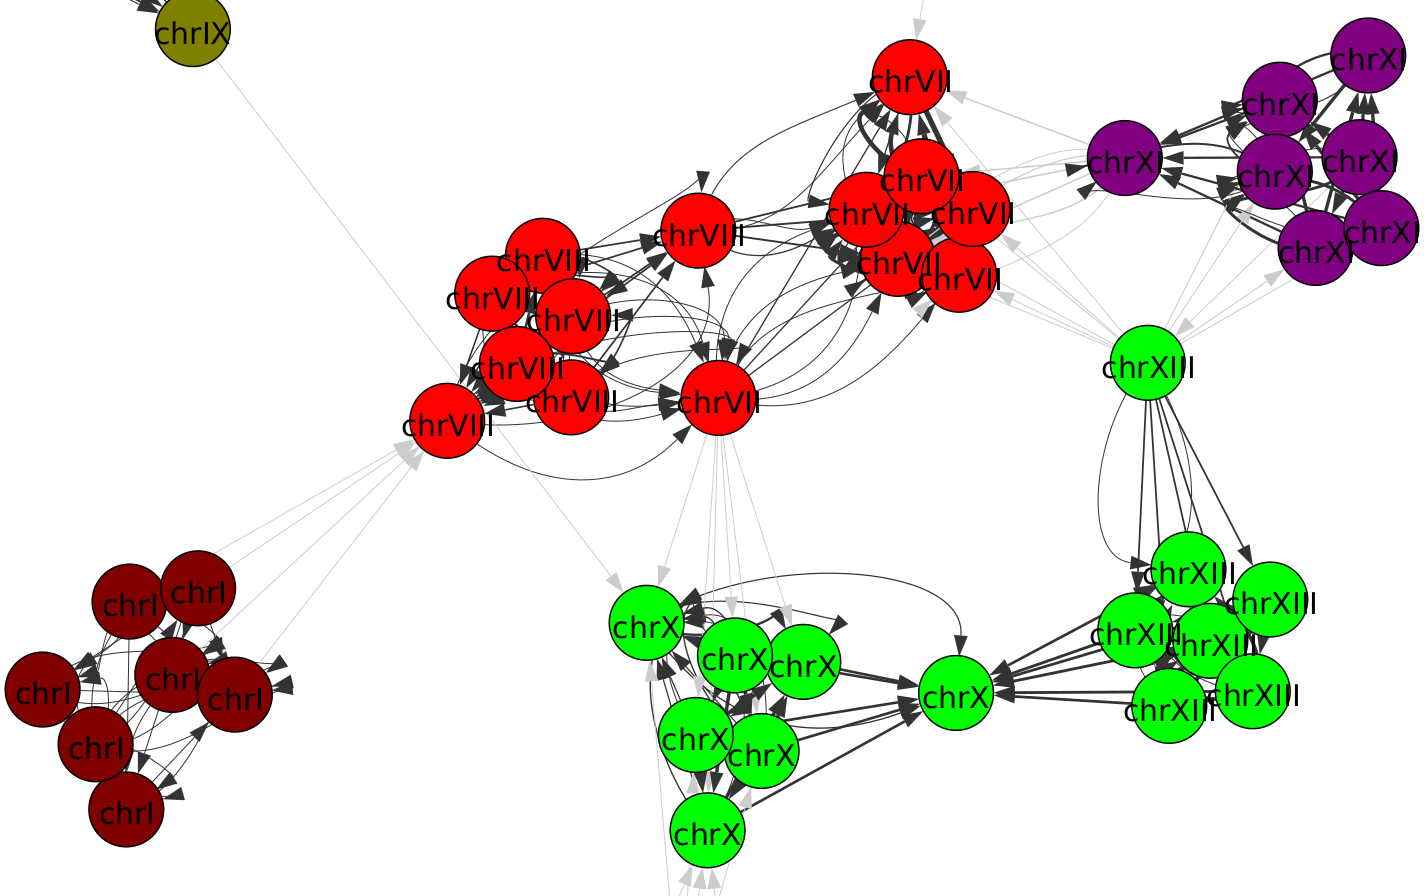
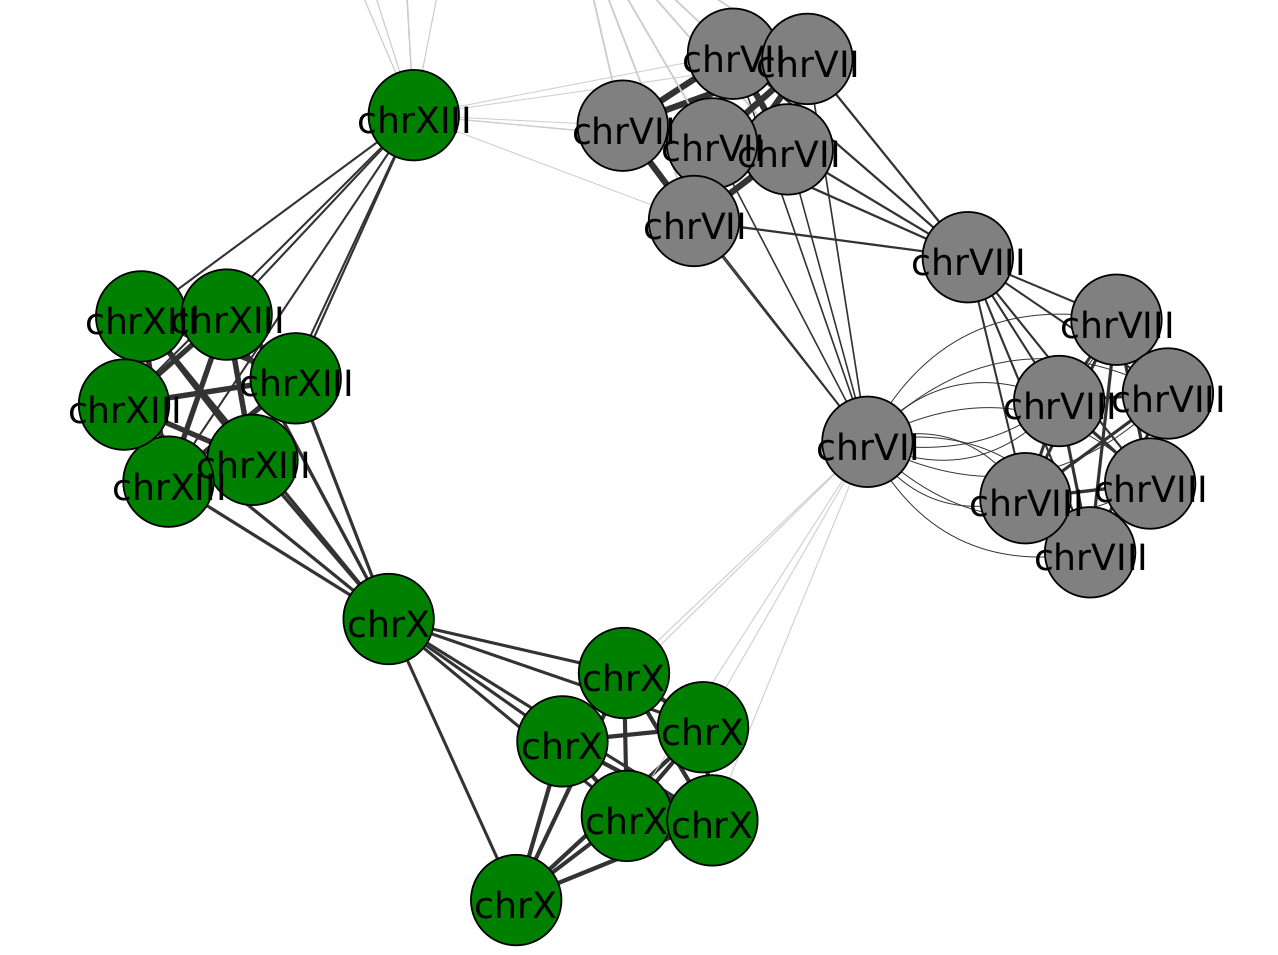
fix and update the partitioning tutorial

diff --git a/docs/conf.py b/docs/conf.py
@@ -20,13 +20,13 @@ sys.path.insert(0, os.path.abspath('../lib/'))
 # -- Project information -----------------------------------------------------
 
 project = u'pggb'
-copyright = '2022, Erik Garrison, .... Revision v0.3.0-2235cfe'
+copyright = '2022, Erik Garrison, .... Revision v0.3.0-352c385'
 author = u'Erik Garrison, ...'
 
 # The short X.Y version
 version = 'v0.3.0'
 # The full version, including alpha/beta/rc tags
-release = '2235cfe'
+release = '352c385'
 
 
 # -- General configuration ---------------------------------------------------

diff --git a/docs/rst/tutorials/sequence_partitioning.rst b/docs/rst/tutorials/sequence_partitioning.rst
@@ -36,7 +36,7 @@ the ``leidenalg`` `package <https://github.com/vtraag/leidenalg>`_:
 
 .. code-block:: bash
 
-    pip3 install leidenalg
+    pip3 install python-igraph
     pip3 install pycairo # Only needed for visualization
 
 
@@ -92,11 +92,12 @@ To compute the pairwise mappings with `wfmash <https://github.com/ekg/wfmash>`_,
 
 .. code-block:: bash
 
-    wfmash scerevisiae7.fasta.gz -p 90 -n 7 -t 4 -m > scerevisiae7.mapping.paf
+    wfmash scerevisiae7.fasta.gz -p 90 -n 6 -t 4 -m > scerevisiae7.mapping.paf
 
 
 We set ``-p 90`` as we expect a sequence divergence of ~10% between these assemblies (see the :ref:`divergence_estimation`
-tutorial for more information), while ``-n 7`` indicates the number of haplotypes (number of haploid samples in this example).
+tutorial for more information), while ``-n 6`` indicates the number of mappings to keep for each homologous region
+identified, set as the number of haplotypes (number of haploid samples in this example) minus 1.
 
 To project the PAF mappings into a network format (an edge list), execute:
 
@@ -120,12 +121,12 @@ To identity the communities, execute:
         -n scerevisiae7.mapping.paf.vertices.id2name.txt
 
 The ``paf2net.py`` script creates a set of `*.community.*.txt` files one for each of the 15 communities detected.
-Each ``txt`` file lists the sequences that belong to the same community. For example, to see the sequences in the first community,
+Each ``txt`` file lists the sequences that belong to the same community. For example, to see the sequences in one community,
 execute:
 
 .. code-block:: bash
 
-    cat scerevisiae7.mapping.paf.edges.weights.txt.community.0.txt
+    cat scerevisiae7.mapping.paf.edges.weights.txt.community.6.txt
 
 .. code-block:: none
 
@@ -157,21 +158,22 @@ samples (`Yue et al., 2016 <https://doi.org/10.1038/ng.3847>`_). To see the chro
 
 .. code-block:: none
 
-    community 0 --> chrVII chrVIII
-    community 1 --> chrX chrXIII
-    community 2 --> chrVI
+    community 0 --> chrI
+    community 1 --> chrII
+    community 2 --> chrIII
     community 3 --> chrIV
     community 4 --> chrV
-    community 5 --> chrXII
-    community 6 --> chrXV
-    community 7 --> chrI
-    community 8 --> chrII
-    community 9 --> chrIII
-    community 10 --> chrIX
-    community 11 --> chrXI
-    community 12 --> chrXIV
-    community 13 --> chrMT
-    community 14 --> chrXVI
+    community 5 --> chrVI
+    community 6 --> chrVII chrVIII
+    community 7 --> chrIX
+    community 8 --> chrX chrXIII
+    community 9 --> chrXI
+    community 10 --> chrXII
+    community 11 --> chrXIV
+    community 12 --> chrXV
+    community 13 --> chrXVI
+    community 14 --> chrMT
+
 
 The ``paf2net.py`` script can also generate a visualization of the communities detected. To request such a visualization,
 run the script by specifying the ``--plot`` flag (it can be slow with big datasets):
@@ -185,7 +187,7 @@ run the script by specifying the ``--plot`` flag (it can be slow with big datase
         --plot
 
 The visualization is written in the ``scerevisiae7.mapping.paf.edges.list.txt.communities.pdf`` file.
-Here is the visualization of a few communities, including the two ones that depict the structural rearrangements (in red and green):
+Here is the visualization of the two communities that depict the structural rearrangements (in grey and green):
 
 .. image:: /img/scerevisiae7.zoom_in_communities.png
 
@@ -270,18 +272,18 @@ To project the distances into a network format (an edge list), and then identify
 
 .. code-block:: none
 
-    community 0 --> chrVII chrVIII
-    community 1 --> chrX chrXIII
-    community 2 --> chrV
-    community 3 --> chrVI
-    community 4 --> chrIX
-    community 5 --> chrXIV
-    community 6 --> chrIII
-    community 7 --> chrIV
-    community 8 --> chrMT
-    community 9 --> chrII
-    community 10 --> chrXV
-    community 11 --> chrI
-    community 12 --> chrXI
-    community 13 --> chrXII
-    community 14 --> chrXVI
+    community 0 --> chrII
+    community 1 --> chrI
+    community 2 --> chrIII
+    community 3 --> chrIV
+    community 4 --> chrV
+    community 5 --> chrVI
+    community 6 --> chrVII chrVIII
+    community 7 --> chrIX
+    community 8 --> chrX chrXIII
+    community 9 --> chrXI
+    community 10 --> chrXII
+    community 11 --> chrXIV
+    community 12 --> chrXV
+    community 13 --> chrXVI
+    community 14 --> chrMT
